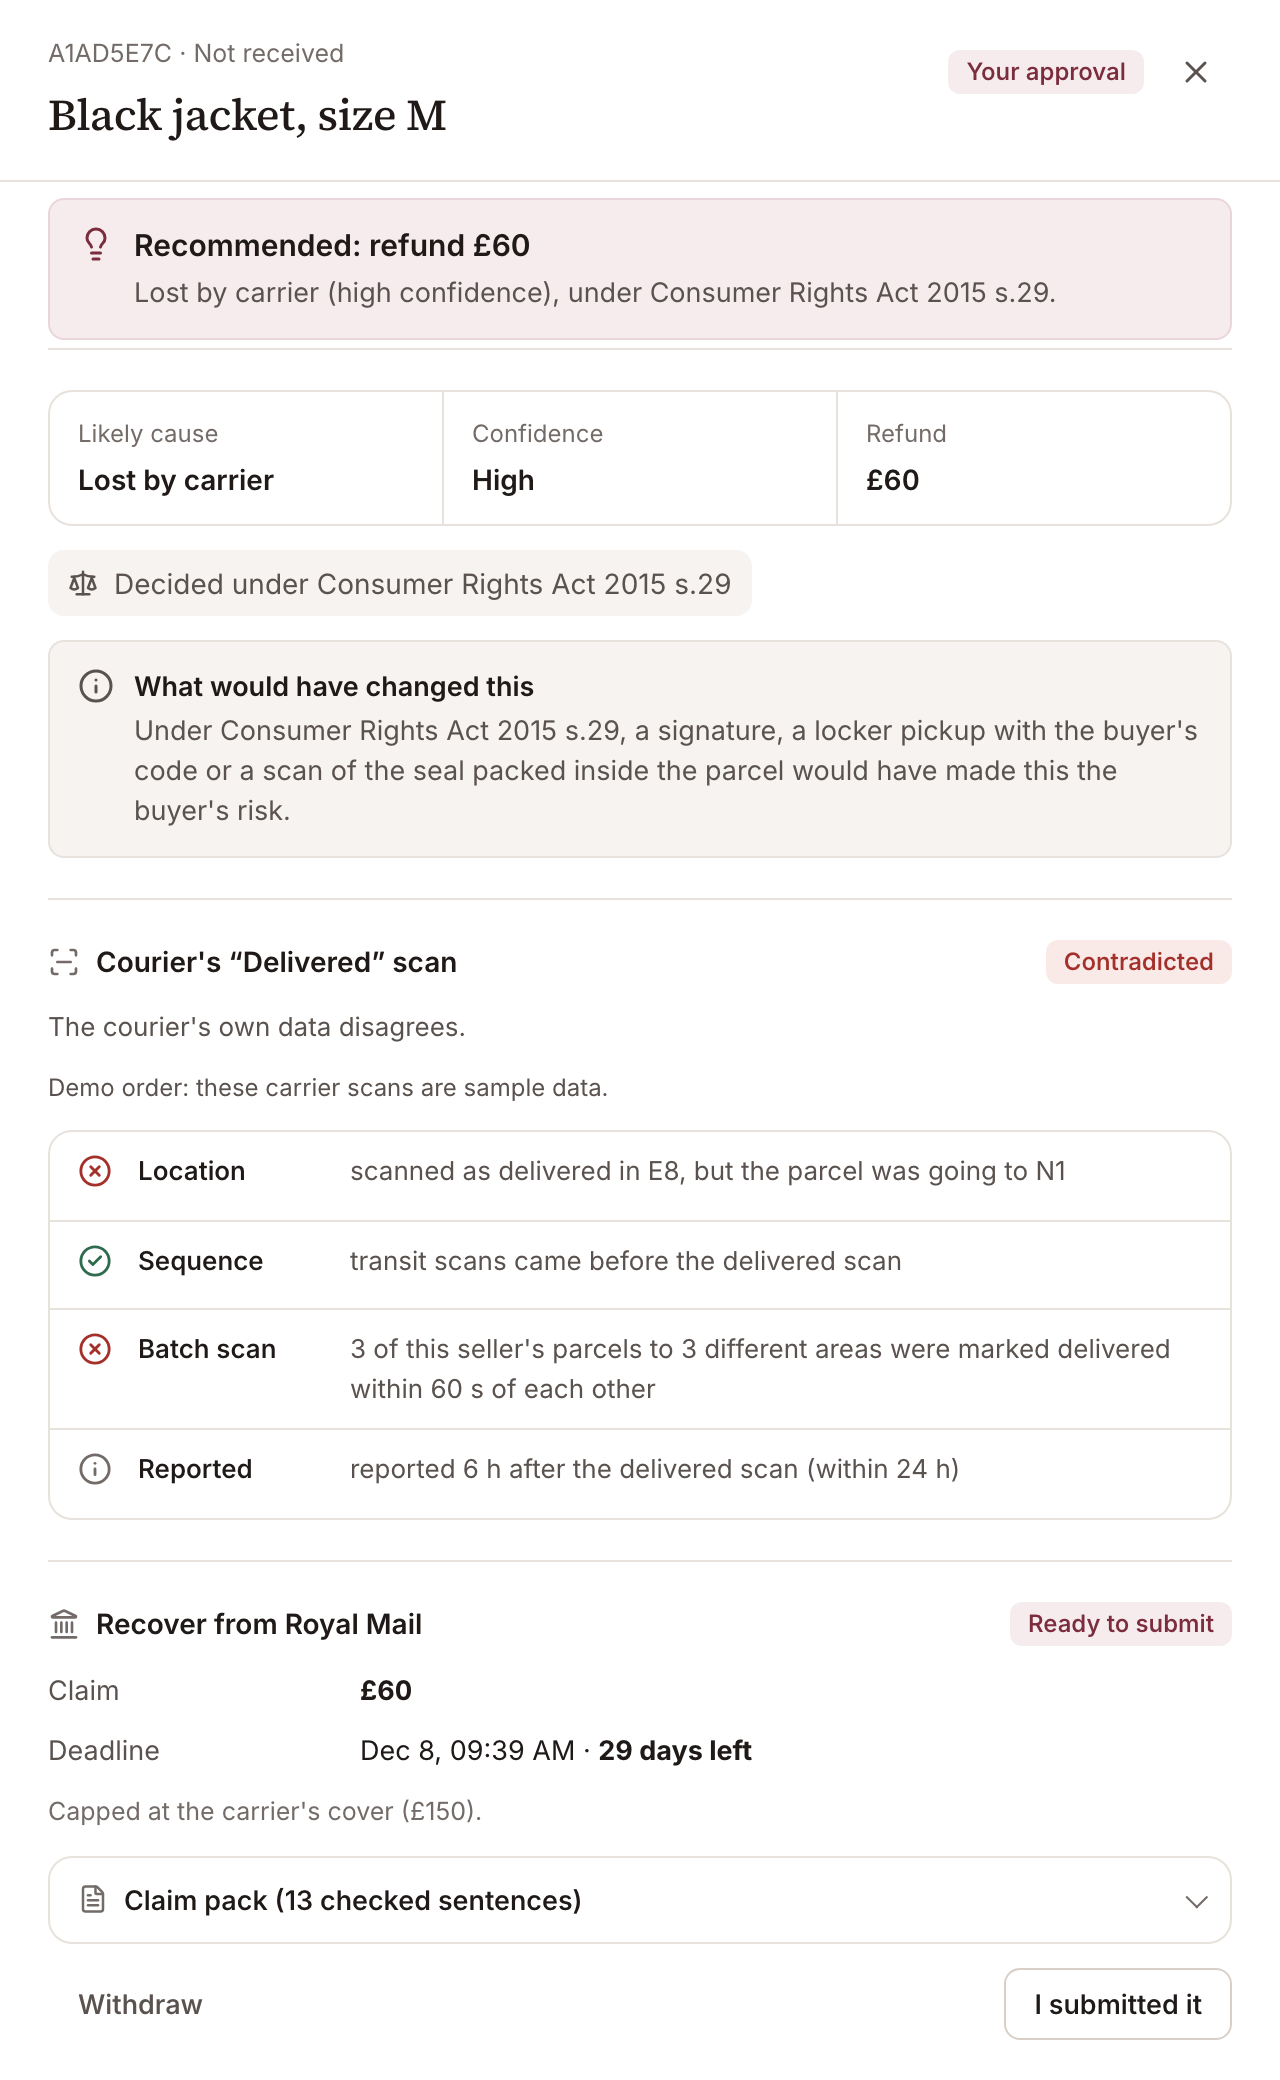
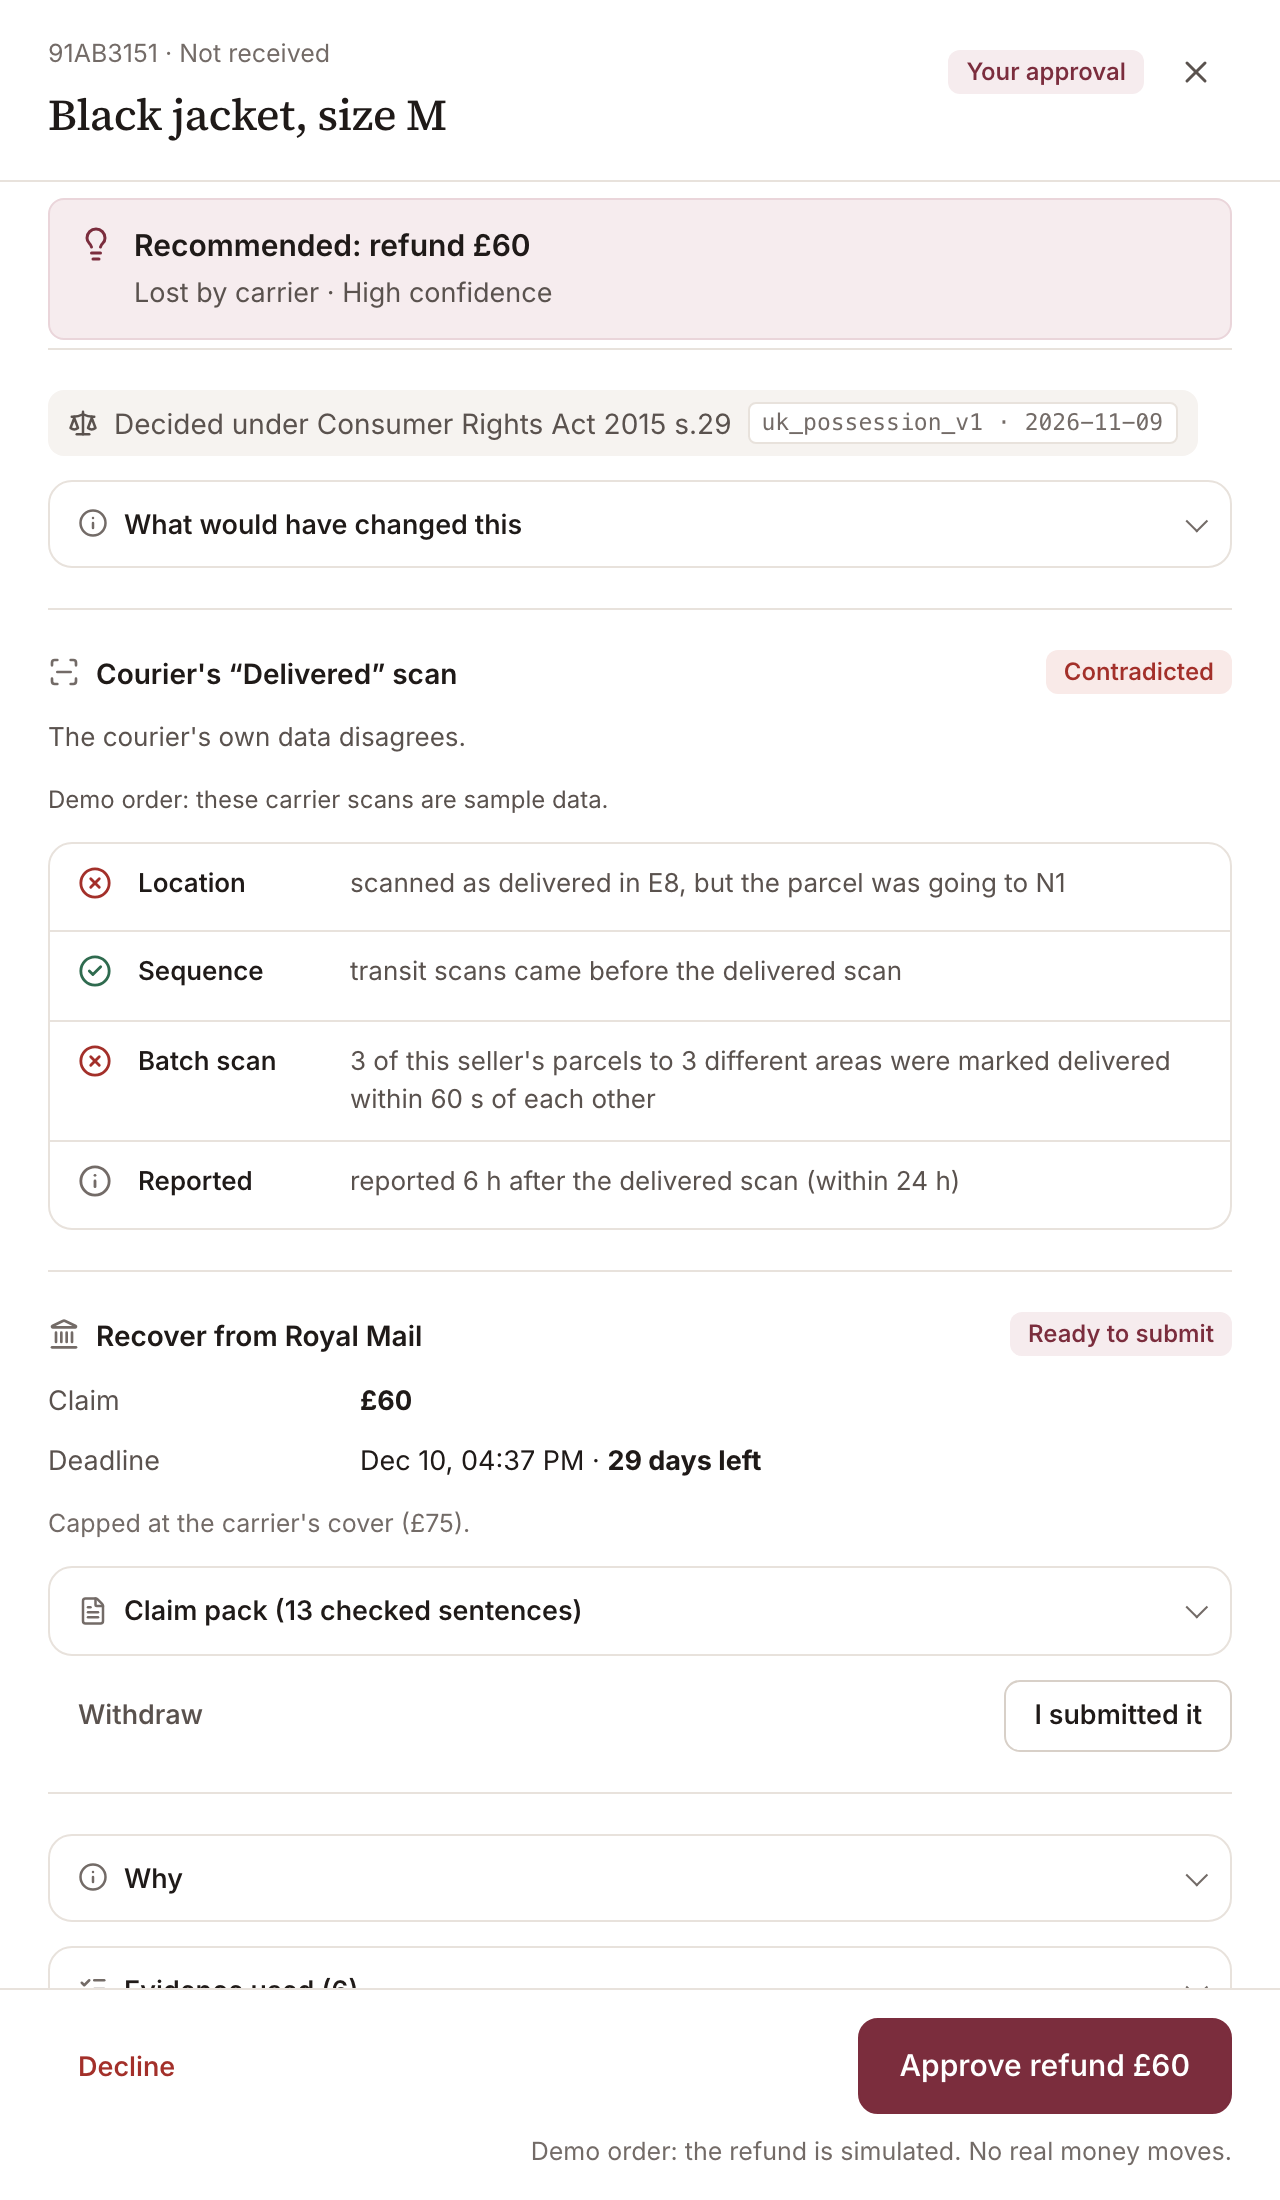
README: Claims, Disputes and Money pages, the Excel workbook, Insights additions; screenshots retaken; DESIGN: a failed refund PayPal made after all

diff --git a/README.md b/README.md
@@ -184,7 +184,8 @@ Each screenshot opens with a click.
 ### Control Room
 
 The seller's home. KPI cards count the orders that need the seller, parcels in transit, money at stake and money recovered from carriers. A click filters the
-grid. A prevention tip comes from the seller's own cases, and the greeting names the next thing to do.
+grid. A prevention tip comes from the seller's own cases, and the guide row names the next thing to do. The sidebar holds the rest: **Resolve** (Claims,
+Disputes, Money), **Automate** (Autopilot, Policy) and **Analytics** (Insights). Each page has its own link, such as `#claims`.
 
 <details>
 <summary>Screenshot: the Delivery Control Room</summary>
@@ -215,7 +216,8 @@ Each row opens a detail panel without leaving the table. The grid also does a se
   grid's filters, a pivot of delivery by journey, a packing-list PDF and a hand-off PDF.
 - **Money done right.** Group by delivery or journey and the totals stay per currency, with a share of money at stake. Select cells and the status bar sums
   them.
-- **Every hand.** Keyboard, Find that marks matches in place, Excel export, and on a phone each order becomes one card in the same grid.
+- **Every hand.** Keyboard, Find that marks matches in place, an Excel workbook (Orders, then By delivery with money per currency), column widths and order
+  remembered in the browser, and on a phone each order becomes one card in the same grid.
 
 <details>
 <summary>Screenshot: an order with its detail panel open</summary>
@@ -239,6 +241,28 @@ Each row opens a detail panel without leaving the table. The grid also does a se
 <details>
 <summary>Screenshot: Diyorbek's case, with the contradicted delivered scan</summary>
 <img src="docs/img/screens/case.png" alt="A case: likely cause, rule, delivered-scan audit and carrier recovery" width="520">
+</details>
+
+### Claims, Disputes and Money
+
+Three ledgers read from Doorstep's own records, each with KPIs on top and an AG Grid table with one total per currency. A row opens its case.
+
+- **Claims:** every carrier claim, its status, the days left and what the carrier paid. Group by carrier.
+- **Disputes:** each PayPal dispute, the route Doorstep took, the Seller Protection verdict and the outcome.
+- **Money:** every refund, offer and evidence send, with PayPal's refund id, the `PayPal-Request-Id` and a link to the signed receipt. It updates live
+  while a refund is on its way.
+
+The pages read; none of them can move money. **Autopilot** and **Policy** have pages of their own too: the seller's rules with what they spent, and the
+shop's written policy checked against the law.
+
+<details>
+<summary>Screenshot: Claims, with what the carriers paid back</summary>
+<img src="docs/img/screens/claims.png" alt="The Claims page: open claims, money recovered, days left, and a ledger grid with a total per currency" width="100%">
+</details>
+
+<details>
+<summary>Screenshot: Money, every PayPal write with its idempotency key</summary>
+<img src="docs/img/screens/money.png" alt="The Money page: refunds with status, PayPal refund id, request key and receipt link" width="100%">
 </details>
 
 ### Buyer's page
@@ -274,7 +298,10 @@ Reports on AG Studio, with an agent that reads them and builds them.
   an **Areas** report with a 3D atlas of postcode areas (height is orders, colour is failures; a click filters the page).
 - **Ask Doorstep.** Studio's agent, in view mode. A question gets a figure, a chart or a page. "Which carrier cost me most this month?" answers in words with
   the chart beside it. "Chase Evri" plans a page and lets Studio's own page and widget agents build it. Every change the agent makes is listed, attributed and
-  one click from undone. **Steps** under each reply shows how it worked it out. It sees no buyer details and cannot move money.
+  one click from undone. **Steps** under each reply shows how it worked it out, and a line says who answered: Claude, Gemini or Doorstep's rules. Its
+  starters come from the shop's own rows. It sees no buyer details and cannot move money.
+- **Kept and printed.** Reports stay as the seller left them in this browser (Reset report puts them back) and print on A4. The brief lists the claims due
+  next, and Carriers has a won ÷ claimed gauge for each carrier.
 - **Doorstep's widgets** (the brief, the parcel journey, money flow, the claim clock, the evidence meter, failure points, the atlas) are Studio widgets with AI
   descriptions, so the agent can add them to a page like any chart.
 
@@ -308,6 +335,9 @@ The Control Room is AG Grid 36 Enterprise and Insights is AG Studio 3.1. Each fe
 | Find, cell selection, side bar | Find module, cell selection with the status bar, New Filters tool panel | The Doorstep panel counts lanes and clears them |
 | Detail panel | Master detail with a nested grid | The case timeline, six rows then "Show all" |
 | Phone cards | One custom column below 600 px, row height per node | The same grid, the same data, a thumb's layout |
+| Claims, Disputes, Money | Pinned total rows, row grouping, status bar, grid state | Read-only; one total per currency, never £ plus $ |
+| Excel workbook, remembered layout | Multiple-sheet Excel export, grid state API | Per-currency group titles; filters are never restored |
+| Saved reports, claim gauges | Studio state, linear gauge widget | Kept in this browser only; a ratio, so currencies never mix |
 | The brief and the atlas | Studio custom widgets with `ai` metadata, `defaultState` and the widget menu | The agent can add them; they read the postcode area only |
 | Ask Doorstep | Studio Agent Framework: lead agent, Studio's page and widget agents, tool overrides | A read-only toolset; the browser computes every number |
 | Chase a carrier | `create_report`, `check_page`, `build_report_template` | A plan card first; a template fallback with no model |

diff --git a/docs/DESIGN.md b/docs/DESIGN.md
@@ -84,6 +84,7 @@ transaction.
 | A dispute opens while a refund waits | The live re-check blocks the refund and moves the case to dispute evidence |
 | Evidence changes after the decision | The fingerprint differs; the refund is blocked for a person |
 | A refund fails for good | Marked failed, never retried with a new key; the case goes to a person |
+| A refund marked failed, that PayPal made after all | PayPal's REFUNDED webhook finds it by its custom id: the record becomes completed with PayPal's refund id and a held case settles; a case a person closed stays closed |
 | PayPal answers a refund as PENDING | Counted as on its way, so it is never sent twice; the case settles when PayPal confirms it (webhook, or the worker's 5-minute sweep reads PayPal) |
 | PayPal resolves a dispute | The case that waited on it closes; PayPal's decision stands |
 | A forged PayPal webhook | Signature check fails; nothing is stored |
